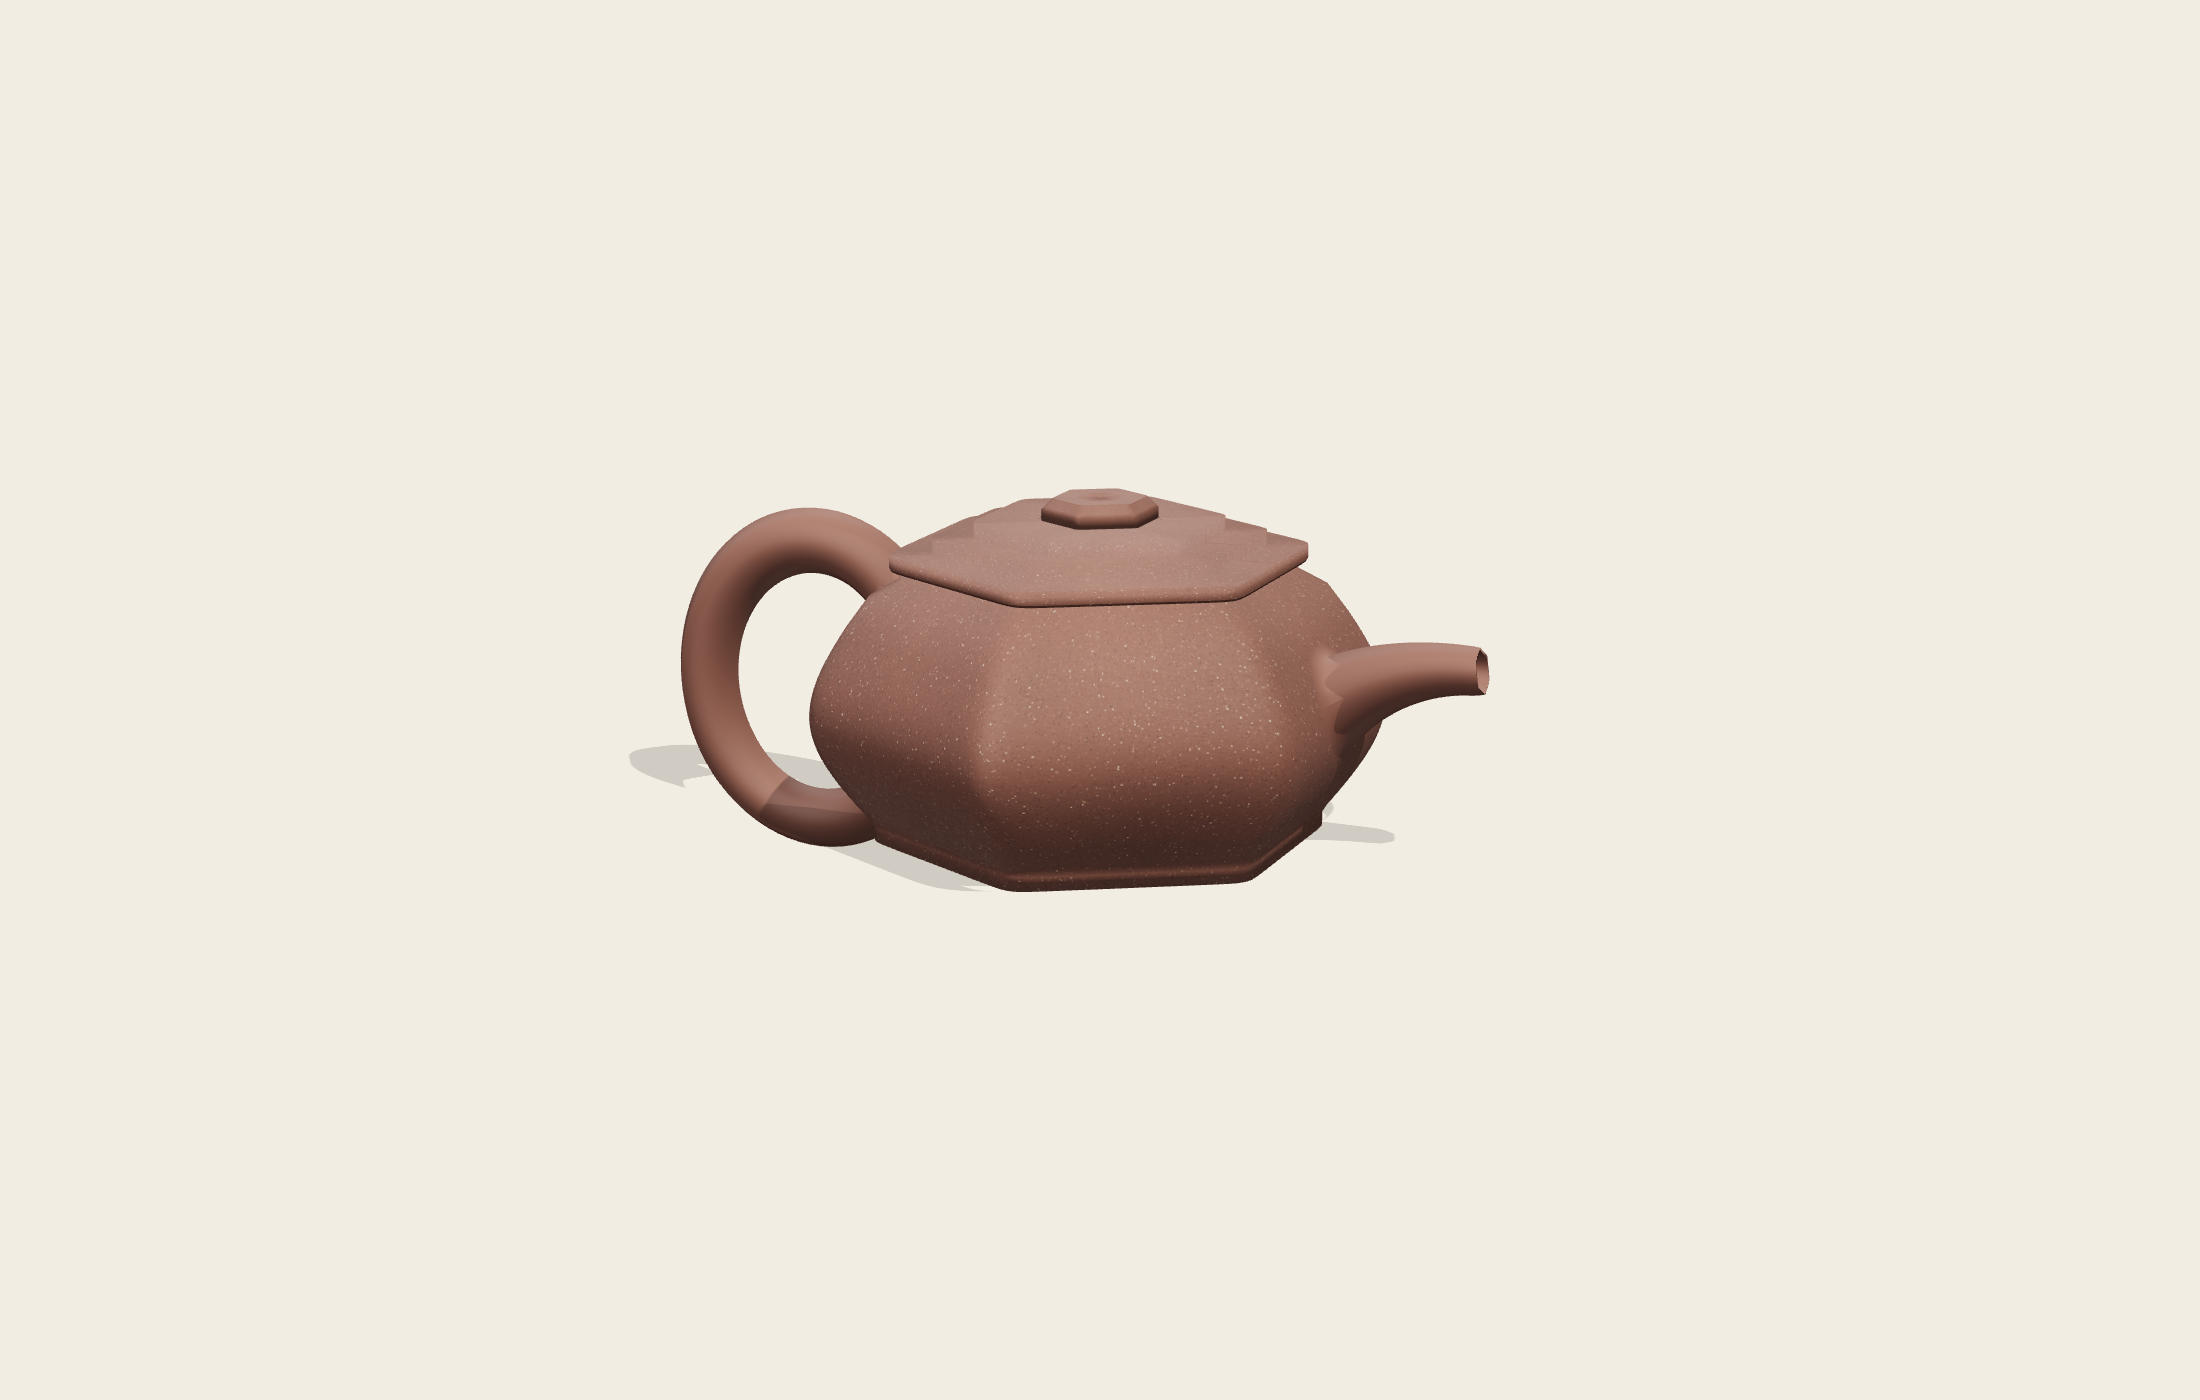
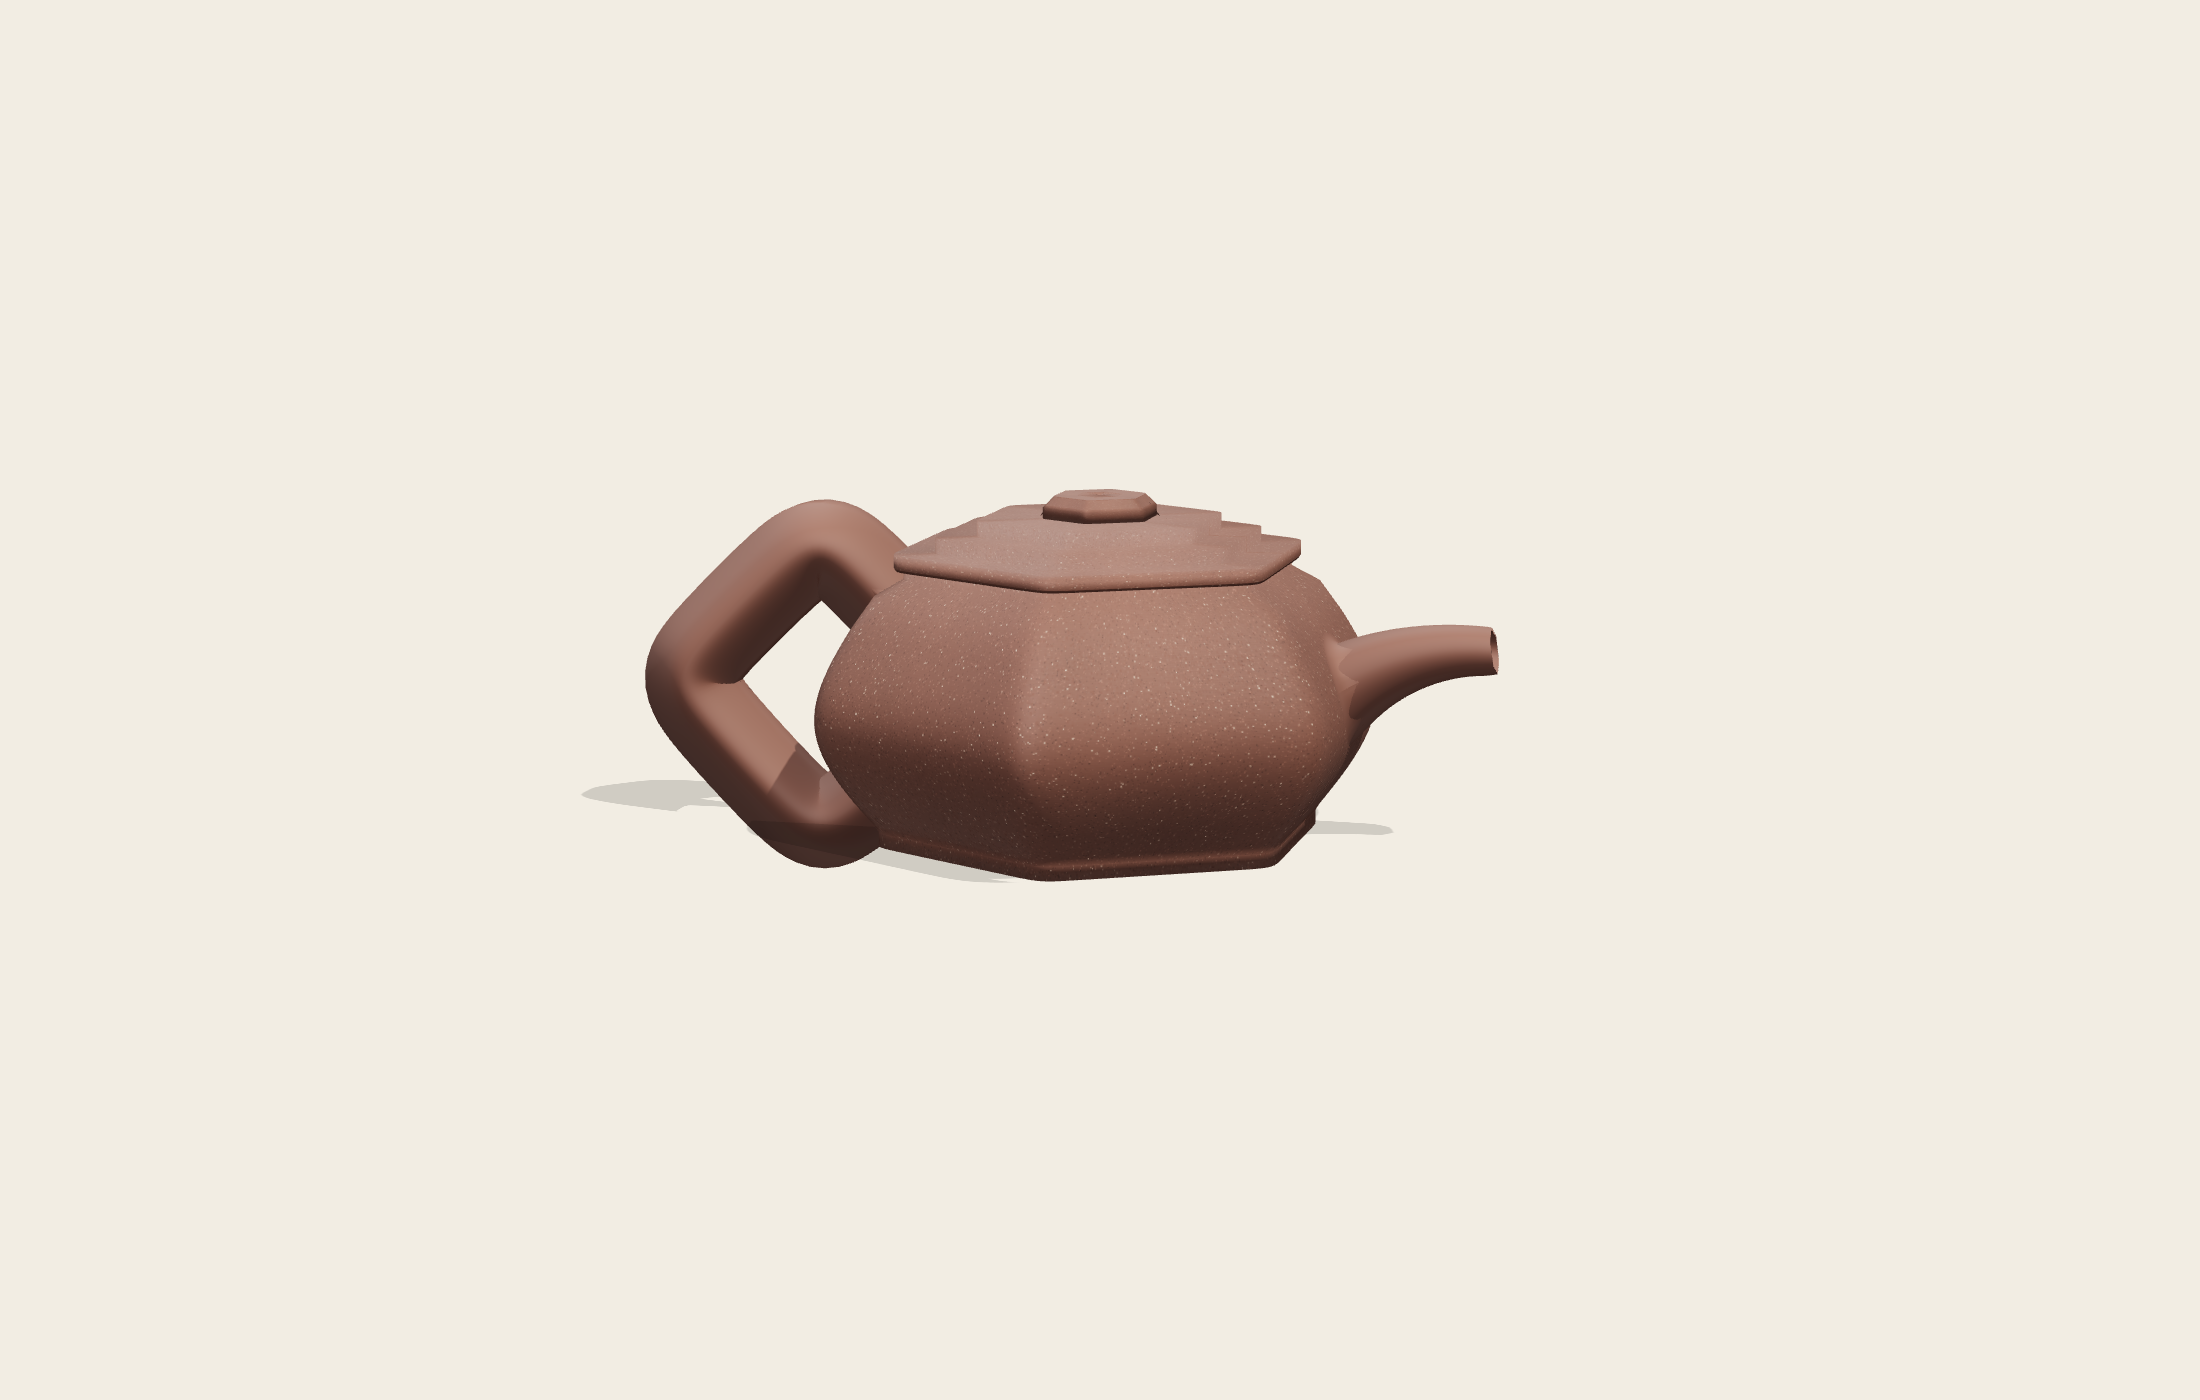
六方: the handle is a flat strap with a squared outline
f9's handle is two things at once and ours was neither: a rolled clay slab —
flat outer face, crisp edges, wide across the pot and thin radially — bent into
a D with corners rather than an ear.

Both fall out of the construction already used for the body's facets. A convex
shape is the intersection of its half-planes, so rectSection is four of them
with two different offsets, and a p-norm in place of the min rounds the corners
smoothly. It serves as the strap's *section*; `squared` then applies the same
function to the loop's *outline*, pushing it from a circle toward a rounded
rectangle. One idea, three uses.

The handle keeps its blend, its teardrop modulation and its no-reversal
guarantee — check-details still reports 0 curvature reversals, which is what I
wanted to be sure of before changing the loop's radius function again.

Twelve-view QC; canon and details pass on all seven pots.

Claude-Session: https://claude.ai/code/session_01Au3NkrP4Zh9Vb2uEzJxxmj

Changed region(s): [[0.2473, 0.3379, 0.68, 0.645], [0.4018, 0.4914, 0.4945, 0.5836], [0.3709, 0.3379, 0.4018, 0.3686]]

diff --git a/src/components/handles.js b/src/components/handles.js
@@ -1,5 +1,5 @@
 import * as THREE from 'three'
-import { ngonSection } from '../geometry/loft.js'
+import { ngonSection, rectSection } from '../geometry/loft.js'
 import { sweptTube, filletBlend, filletCollar, surfaceCrossing } from '../geometry/sweep.js'
 
 /** the circle through three points, as centre + radius */
@@ -50,6 +50,13 @@ export const HANDLES = {
       // faceted strap for 方器; 0 leaves it round
       facets: { label: '把面数', min: 0, max: 8, step: 1, default: 0 },
       crisp: { label: '把棱', min: 3, max: 40, step: 1, default: 14 },
+      // a flat strap: how much wider across the pot than it is thick. 1 is
+      // round. 方器 handles are rolled clay slabs, not rods, and read as a flat
+      // outer face with two crisp edges.
+      strap: { label: '把宽厚比', min: 1, max: 3, step: 0.05, default: 1 },
+      // how far the loop's *outline* is pushed from a circle toward a squared
+      // D. A 方器 handle turns corners; an ear does not.
+      squared: { label: '把方', min: 0, max: 1, step: 0.02, default: 0 },
     },
     build(p, prof, material) {
       const H = prof.height
@@ -102,12 +109,17 @@ export const HANDLES = {
       // early (t ~ 0.32) so the swell sits where the strap leaves the shoulder
       // and decays monotonically into the belly. Monotone decay cannot reverse.
       const drop = p.teardrop ?? 0
+      const boxR = rectSection(1, 6)
       const pts = []
       const N = 96
       for (let i = 0; i <= N; i++) {
         const t = i / N
         const a = a0 + delta * t
-        const r = radius * (1 + drop * Math.sin(Math.PI * Math.pow(t, 0.6)))
+        // the loop's outline: a circle, optionally pushed toward a rounded
+        // rectangle by the same half-plane construction the body's facets use
+        const sq = p.squared ?? 0
+        const box = sq > 0 ? THREE.MathUtils.lerp(1, boxR(a - a0 + Math.PI), sq) : 1
+        const r = radius * box * (1 + drop * Math.sin(Math.PI * Math.pow(t, 0.6)))
         pts.push(new THREE.Vector3(
           centre.x + r * Math.cos(a),
           (centre.y + r * Math.sin(a)) * k,
@@ -117,9 +129,12 @@ export const HANDLES = {
       // no end pinning: fitted unstretched, the arc already lands on A and B
       const curve = new THREE.CatmullRomCurve3(pts, false, 'centripetal')
       const rAt = (t) => p.tube * (p.taper + (1 - p.taper) * Math.pow(t, 1.4))
+      const strapW = p.strap ?? 1
+      const section = strapW > 1.001
+        ? rectSection(strapW, p.crisp ?? 14)
+        : p.facets >= 3 ? ngonSection(p.facets, p.crisp ?? 14) : null
       const loop = new THREE.Mesh(sweptTube(
-        curve, rAt, 72, p.facets >= 3 ? 96 : 16, null, 0, 0,
-        p.facets >= 3 ? ngonSection(p.facets, p.crisp ?? 14) : null,
+        curve, rAt, 96, section ? 128 : 16, null, 0, 0, section,
       ), material)
       // keep the curve the strap was built from: the detail checks read it to
       // assert the loop never reverses, which no rendering can tell them

diff --git a/src/geometry/loft.js b/src/geometry/loft.js
@@ -207,3 +207,28 @@ export function ngonSection(facets, crisp) {
     return sum > 0 ? Math.pow(sum, -1 / crisp) : 1
   }
 }
+
+/**
+ * A rounded rectangle, as a radius function — the section of a flat clay strap,
+ * and also the outline of a squared handle loop.
+ *
+ * Same construction as ngonSection: a convex shape is the intersection of its
+ * half-planes, so its radius is min over faces of d_i/cos(theta - phi_i), and a
+ * p-norm in place of the min rounds the corners smoothly. Here the four faces
+ * carry different offsets, which is what makes it a rectangle rather than a
+ * square: 1 across, `wide` along.
+ */
+export function rectSection(wide, crisp) {
+  const faces = [
+    [0, 1], [Math.PI, 1],
+    [Math.PI / 2, wide], [-Math.PI / 2, wide],
+  ]
+  return (theta) => {
+    let sum = 0
+    for (const [phi, d] of faces) {
+      const c = Math.cos(theta - phi) / d
+      if (c > 0) sum += Math.pow(c, crisp)
+    }
+    return sum > 0 ? Math.pow(sum, -1 / crisp) : 1
+  }
+}

diff --git a/public/refs/index.html b/public/refs/index.html
@@ -22,7 +22,7 @@
 <figure><figcaption>六方 — the first 方器: hexagonal body, 台阶盖 lid, 方钮, faceted spout</figcaption>
 <a href="liufang.png"><img src="liufang.png" alt=""></a></figure>
 
-<figure><figcaption>六方 — beside the references, from the side and from above</figcaption>
+<figure><figcaption>六方 — the faceted strap handle beside f9</figcaption>
 <a href="liufang_cmp.png"><img src="liufang_cmp.png" alt=""></a></figure>
 
 <figure><figcaption>六方 — eight-angle QC</figcaption>

diff --git a/README.md b/README.md
@@ -56,7 +56,7 @@ Component vocabulary (growing):
 | lid 盖 | none, flatDisc, dome, flush (截盖), ballCap (压盖), stepped (台阶盖) | douli, inset (kyusu), saucer |
 | knob 钮 | none, bridgeStrap, bridgeMound, bead, button (方钮) | loop, figural |
 | spout 流 | none, straightCone, curved (弯嘴) | formedLip, curved, 三弯 |
-| handle 把 | none, rearLoop | sideStick (横手), overheadBail (提梁), rearStick |
+| handle 把 | none, rearLoop, invertedEar (round ear, 倒把, teardrop, flat strap, squared D) | sideStick (横手), overheadBail (提梁), rearStick |
 | base 足 | flat, studs, ring | — |
 | strainer 滤 | — | singleHole, 球孔, mesh (sasame), plate |
 | surface | material | ornament: seal 印章, engraving, relief |
@@ -223,6 +223,13 @@ height", which stops being a complete question once the body has faces. So
 `radiusAt` now takes an azimuth too, ignored by every round body, and the fillet
 surface asks with the point's own azimuth — which also means the body normal
 gains a sideways component, so a fillet crossing a 棱线 leans with it.
+
+The same construction does the handle. A 方器's handle is a rolled clay slab,
+not a rod: `rectSection` gives it a flat outer face with crisp edges by using
+four half-planes with two different offsets, and `squared` pushes the loop's
+*outline* from a circle toward a rounded rectangle by the same means. One idea —
+a convex shape is the intersection of its faces — ends up serving the body's
+facets, the strap's section and the handle's outline.
 
 The cross-section itself is a soft-min of half-planes. A convex polygon is the
 intersection of its faces, so its radius is `min_i 1/cos(theta - phi_i)`;
